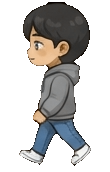
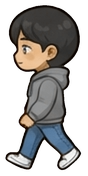
구형 초상 17개·주인공 12장 v5 재추출 — 계단식 테두리 제거
테두리가 계단처럼 울퉁불퉁하던 원인은 알파가 0/255 두 값뿐이라 곡선이
픽셀 계단 그대로 남은 것이었다. v5 방식(4배 슈퍼샘플 후 프리멀티플라이드
알파로 축소)으로 다시 뽑아 알파 180~234종, 반투명 경계 400~1100px 확보.

 - 시트에 인쇄된 이름 라벨을 읽어 칸↔파일 매핑(유사도 매칭은 체형이 비슷해
   전부 같은 칸으로 몰려서 못 씀)
 - 칸 경계는 마젠타가 없는 띠를 실측해 잡음. 균등 분할하면 칸 테두리선이
   딸려 들어와 폭 217px짜리(=칸 전체) 결과가 나왔다
 - 라벨 여백을 26px 잡았더니 발이 잘려서 0으로. 최대덩어리 필터가 글자를
   이미 걸러내므로 여백이 필요 없다
 - 주인공 right_*는 시트에 없다. 옛 파일이 좌우 반전본이었고(반전 대조
   0.74 vs 0.58) 같은 방식으로 뒤집어 방향을 유지

■ 해상도는 못 올렸다 (앞서 보고한 수치는 틀렸음)
 npc_sheet_magenta를 5x3으로 잘못 세어 "칸 안 282px"이라 했는데 실제로는
 5x4라 189px이었다. player_sheet_raw도 3x4라 163px. 즉 지금 크기가 원본
 그대로이고, 재추출로 얻은 건 안티에일리어싱뿐이다(세로는 160~181 →
 163~190으로 소폭). 해상도를 올리려면 시트를 더 크게 다시 뽑아야 한다.

■ 캐시 무효화
 파일명이 같아 브라우저가 옛 그림을 계속 쓴다. ART_V='?v=2'를 초상·주인공·
 대화창 프로필 로더에 붙였다. 선언은 주인공 스프라이트 로더보다 앞에 둬야
 한다 — 뒤에 뒀다가 TDZ 오류로 스크립트 전체가 죽었다.

Changed region(s): [[0.0455, 0.0, 0.9318, 0.9884], [0.3864, 0.1453, 0.4091, 0.1744]]

diff --git a/www/gaehang_ch2.html b/www/gaehang_ch2.html
@@ -150,6 +150,10 @@
 const canvas = document.getElementById('game');
 const ctx = canvas.getContext('2d');
 let VIEW_W = 0, VIEW_H = 0;   // 논리 픽셀 기준 화면 크기(DPR 스케일 전)
+/* 그림 파일을 다시 뽑아도 이름이 같으면 브라우저가 옛 캐시를 계속 쓴다.
+   초상·스프라이트를 갱신할 때 이 값을 올리면 확실히 새로 받는다.
+   (주인공 스프라이트 로더보다 반드시 앞에 있어야 한다 — 뒤에 두면 TDZ 오류) */
+const ART_V = '?v=2';
 const wrapEl = document.getElementById('wrap');
 /* 모바일 브라우저는 주소창이 늦게 접히거나 펼쳐지면서 innerWidth/innerHeight가
    한 박자 늦게 바뀌는 경우가 있다(특히 iOS Safari). visualViewport가 있으면
@@ -244,7 +248,7 @@ const DIR_SRC = { down:'down', up:'up', left:'right', right:'left' };
 const PLAYER_SPRITES = {};
 ['down','up','left','right'].forEach(dir => {
   const src = DIR_SRC[dir];
-  PLAYER_SPRITES[dir] = [0,1,2].map(i => { const im = new Image(); im.src = `assets/player/${src}_${i}.png`; return im; });
+  PLAYER_SPRITES[dir] = [0,1,2].map(i => { const im = new Image(); im.src = `assets/player/${src}_${i}.png` + ART_V; return im; });
 });
 const DIR_NAME = { u:'up', d:'down', l:'left', r:'right' };
 function drawPlayerSprite(px, py, facing, moving){
@@ -265,7 +269,7 @@ function drawPlayerSprite(px, py, facing, moving){
    실루엣 대신 실제 이미지를 필드에도 그린다(ch0_phaser와 동일하게). */
 const NPC_SPRITE_CACHE = {};
 function getNpcImg(path){
-  if (!NPC_SPRITE_CACHE[path]){ const im = new Image(); im.src = path; NPC_SPRITE_CACHE[path] = im; }
+  if (!NPC_SPRITE_CACHE[path]){ const im = new Image(); im.src = path + ART_V; NPC_SPRITE_CACHE[path] = im; }
   return NPC_SPRITE_CACHE[path];
 }
 function drawNpcSprite(px, py, imgPath){
@@ -536,7 +540,7 @@ const Dialog = {
     const portraitEl = document.getElementById('dlg-portrait');
     if (portraitEl){
       const img = beat.img || (beat.name ? null : this.data.img);
-      if (img){ portraitEl.textContent = ''; portraitEl.style.backgroundImage = `url('${img}')`; }
+      if (img){ portraitEl.textContent = ''; portraitEl.style.backgroundImage = `url('${img}${ART_V}')`; }
       else { portraitEl.style.backgroundImage = 'none'; portraitEl.textContent = beat.icon || this.data.icon || '👤'; }
     }
     document.getElementById('dlg-text').textContent = beat.t;

diff --git a/www/ilje_ch7.html b/www/ilje_ch7.html
@@ -150,6 +150,10 @@
 const canvas = document.getElementById('game');
 const ctx = canvas.getContext('2d');
 let VIEW_W = 0, VIEW_H = 0;   // 논리 픽셀 기준 화면 크기(DPR 스케일 전)
+/* 그림 파일을 다시 뽑아도 이름이 같으면 브라우저가 옛 캐시를 계속 쓴다.
+   초상·스프라이트를 갱신할 때 이 값을 올리면 확실히 새로 받는다.
+   (주인공 스프라이트 로더보다 반드시 앞에 있어야 한다 — 뒤에 두면 TDZ 오류) */
+const ART_V = '?v=2';
 const wrapEl = document.getElementById('wrap');
 /* 모바일 브라우저는 주소창이 늦게 접히거나 펼쳐지면서 innerWidth/innerHeight가
    한 박자 늦게 바뀌는 경우가 있다(특히 iOS Safari). visualViewport가 있으면
@@ -249,7 +253,7 @@ const DIR_SRC = { down:'down', up:'up', left:'right', right:'left' };
 const PLAYER_SPRITES = {};
 ['down','up','left','right'].forEach(dir => {
   const src = DIR_SRC[dir];
-  PLAYER_SPRITES[dir] = [0,1,2].map(i => { const im = new Image(); im.src = `assets/player/${src}_${i}.png`; return im; });
+  PLAYER_SPRITES[dir] = [0,1,2].map(i => { const im = new Image(); im.src = `assets/player/${src}_${i}.png` + ART_V; return im; });
 });
 const DIR_NAME = { u:'up', d:'down', l:'left', r:'right' };
 function drawPlayerSprite(px, py, facing, moving){
@@ -270,7 +274,7 @@ function drawPlayerSprite(px, py, facing, moving){
    실루엣 대신 실제 이미지를 필드에도 그린다(ch0_phaser와 동일하게). */
 const NPC_SPRITE_CACHE = {};
 function getNpcImg(path){
-  if (!NPC_SPRITE_CACHE[path]){ const im = new Image(); im.src = path; NPC_SPRITE_CACHE[path] = im; }
+  if (!NPC_SPRITE_CACHE[path]){ const im = new Image(); im.src = path + ART_V; NPC_SPRITE_CACHE[path] = im; }
   return NPC_SPRITE_CACHE[path];
 }
 function drawNpcSprite(px, py, imgPath){
@@ -520,7 +524,7 @@ const Dialog = {
     const portraitEl = document.getElementById('dlg-portrait');
     if (portraitEl){
       const img = beat.img || (beat.name ? null : this.data.img);
-      if (img){ portraitEl.textContent = ''; portraitEl.style.backgroundImage = `url('${img}')`; }
+      if (img){ portraitEl.textContent = ''; portraitEl.style.backgroundImage = `url('${img}${ART_V}')`; }
       else { portraitEl.style.backgroundImage = 'none'; portraitEl.textContent = beat.icon || this.data.icon || '👤'; }
     }
     document.getElementById('dlg-text').textContent = beat.t;

diff --git a/www/ch3.html b/www/ch3.html
@@ -207,6 +207,10 @@
 const canvas = document.getElementById('game');
 const ctx = canvas.getContext('2d');
 let VIEW_W = 0, VIEW_H = 0;   // 논리 픽셀 기준 화면 크기(DPR 스케일 전)
+/* 그림 파일을 다시 뽑아도 이름이 같으면 브라우저가 옛 캐시를 계속 쓴다.
+   초상·스프라이트를 갱신할 때 이 값을 올리면 확실히 새로 받는다.
+   (주인공 스프라이트 로더보다 반드시 앞에 있어야 한다 — 뒤에 두면 TDZ 오류) */
+const ART_V = '?v=2';
 
 /* 가로모드 고정: 세로 뷰포트면 body에 .rot을 붙여 #wrap을 90도 회전시키고,
    #wrap/canvas 크기는 가로세로를 서로 바꾼 값으로 맞춘다. vh 대신 항상 px로 계산. */
@@ -324,7 +328,7 @@ const DIR_SRC = { down:'down', up:'up', left:'right', right:'left' };
 const PLAYER_SPRITES = {};
 ['down','up','left','right'].forEach(dir => {
   const src = DIR_SRC[dir];
-  PLAYER_SPRITES[dir] = [0,1,2].map(i => { const im = new Image(); im.src = `assets/player/${src}_${i}.png`; return im; });
+  PLAYER_SPRITES[dir] = [0,1,2].map(i => { const im = new Image(); im.src = `assets/player/${src}_${i}.png` + ART_V; return im; });
 });
 const DIR_NAME = { u:'up', d:'down', l:'left', r:'right' };
 function drawPlayerSprite(px, py, facing, moving){
@@ -345,7 +349,7 @@ function drawPlayerSprite(px, py, facing, moving){
    실루엣 대신 실제 이미지를 필드에도 그린다(ch0_phaser와 동일하게). */
 const NPC_SPRITE_CACHE = {};
 function getNpcImg(path){
-  if (!NPC_SPRITE_CACHE[path]){ const im = new Image(); im.src = path; NPC_SPRITE_CACHE[path] = im; }
+  if (!NPC_SPRITE_CACHE[path]){ const im = new Image(); im.src = path + ART_V; NPC_SPRITE_CACHE[path] = im; }
   return NPC_SPRITE_CACHE[path];
 }
 function drawNpcSprite(px, py, imgPath){
@@ -779,7 +783,7 @@ const Dialog = {
     document.getElementById('dlg-name').textContent = beat.name || this.data.name;
     const portraitEl = document.getElementById('dlg-portrait');
     const img = beat.img || this.data.img;
-    if (img){ portraitEl.textContent = ''; portraitEl.style.backgroundImage = `url('${img}')`; }
+    if (img){ portraitEl.textContent = ''; portraitEl.style.backgroundImage = `url('${img}${ART_V}')`; }
     else { portraitEl.style.backgroundImage = 'none'; portraitEl.textContent = beat.icon || this.data.icon; }
     document.getElementById('dlg-text').textContent = beat.t;
   },

diff --git a/www/ch4.html b/www/ch4.html
@@ -209,6 +209,10 @@
 const canvas = document.getElementById('game');
 const ctx = canvas.getContext('2d');
 let VIEW_W = 0, VIEW_H = 0;   // 논리 픽셀 기준 화면 크기(DPR 스케일 전)
+/* 그림 파일을 다시 뽑아도 이름이 같으면 브라우저가 옛 캐시를 계속 쓴다.
+   초상·스프라이트를 갱신할 때 이 값을 올리면 확실히 새로 받는다.
+   (주인공 스프라이트 로더보다 반드시 앞에 있어야 한다 — 뒤에 두면 TDZ 오류) */
+const ART_V = '?v=2';
 
 /* 가로모드 고정: 세로 뷰포트면 body에 .rot을 붙여 #wrap을 90도 회전시키고,
    #wrap/canvas 크기는 가로세로를 서로 바꾼 값으로 맞춘다. vh 대신 항상 px로 계산. */
@@ -376,7 +380,7 @@ const DIR_SRC = { down:'down', up:'up', left:'right', right:'left' };
 const PLAYER_SPRITES = {};
 ['down','up','left','right'].forEach(dir => {
   const src = DIR_SRC[dir];
-  PLAYER_SPRITES[dir] = [0,1,2].map(i => { const im = new Image(); im.src = `assets/player/${src}_${i}.png`; return im; });
+  PLAYER_SPRITES[dir] = [0,1,2].map(i => { const im = new Image(); im.src = `assets/player/${src}_${i}.png` + ART_V; return im; });
 });
 const DIR_NAME = { u:'up', d:'down', l:'left', r:'right' };
 function drawPlayerSprite(px, py, facing, moving){
@@ -397,7 +401,7 @@ function drawPlayerSprite(px, py, facing, moving){
    실루엣 대신 실제 이미지를 필드에도 그린다(ch0_phaser와 동일하게). */
 const NPC_SPRITE_CACHE = {};
 function getNpcImg(path){
-  if (!NPC_SPRITE_CACHE[path]){ const im = new Image(); im.src = path; NPC_SPRITE_CACHE[path] = im; }
+  if (!NPC_SPRITE_CACHE[path]){ const im = new Image(); im.src = path + ART_V; NPC_SPRITE_CACHE[path] = im; }
   return NPC_SPRITE_CACHE[path];
 }
 function drawNpcSprite(px, py, imgPath){
@@ -970,7 +974,7 @@ const Dialog = {
     document.getElementById('dlg-name').textContent = beat.name || this.data.name;
     const portraitEl = document.getElementById('dlg-portrait');
     const img = beat.img || this.data.img;
-    if (img){ portraitEl.textContent = ''; portraitEl.style.backgroundImage = `url('${img}')`; }
+    if (img){ portraitEl.textContent = ''; portraitEl.style.backgroundImage = `url('${img}${ART_V}')`; }
     else { portraitEl.style.backgroundImage = 'none'; portraitEl.textContent = beat.icon || this.data.icon; }
     document.getElementById('dlg-text').textContent = beat.t;
   },

diff --git a/www/ch5.html b/www/ch5.html
@@ -209,6 +209,10 @@
 const canvas = document.getElementById('game');
 const ctx = canvas.getContext('2d');
 let VIEW_W = 0, VIEW_H = 0;   // 논리 픽셀 기준 화면 크기(DPR 스케일 전)
+/* 그림 파일을 다시 뽑아도 이름이 같으면 브라우저가 옛 캐시를 계속 쓴다.
+   초상·스프라이트를 갱신할 때 이 값을 올리면 확실히 새로 받는다.
+   (주인공 스프라이트 로더보다 반드시 앞에 있어야 한다 — 뒤에 두면 TDZ 오류) */
+const ART_V = '?v=2';
 
 /* 가로모드 고정: 세로 뷰포트면 body에 .rot을 붙여 #wrap을 90도 회전시키고,
    #wrap/canvas 크기는 가로세로를 서로 바꾼 값으로 맞춘다. vh 대신 항상 px로 계산. */
@@ -384,7 +388,7 @@ const DIR_SRC = { down:'down', up:'up', left:'right', right:'left' };
 const PLAYER_SPRITES = {};
 ['down','up','left','right'].forEach(dir => {
   const src = DIR_SRC[dir];
-  PLAYER_SPRITES[dir] = [0,1,2].map(i => { const im = new Image(); im.src = `assets/player/${src}_${i}.png`; return im; });
+  PLAYER_SPRITES[dir] = [0,1,2].map(i => { const im = new Image(); im.src = `assets/player/${src}_${i}.png` + ART_V; return im; });
 });
 const DIR_NAME = { u:'up', d:'down', l:'left', r:'right' };
 function drawPlayerSprite(px, py, facing, moving){
@@ -405,7 +409,7 @@ function drawPlayerSprite(px, py, facing, moving){
    실루엣 대신 실제 이미지를 필드에도 그린다(ch0_phaser와 동일하게). */
 const NPC_SPRITE_CACHE = {};
 function getNpcImg(path){
-  if (!NPC_SPRITE_CACHE[path]){ const im = new Image(); im.src = path; NPC_SPRITE_CACHE[path] = im; }
+  if (!NPC_SPRITE_CACHE[path]){ const im = new Image(); im.src = path + ART_V; NPC_SPRITE_CACHE[path] = im; }
   return NPC_SPRITE_CACHE[path];
 }
 function drawNpcSprite(px, py, imgPath){
@@ -976,7 +980,7 @@ const Dialog = {
     document.getElementById('dlg-name').textContent = beat.name || this.data.name;
     const portraitEl = document.getElementById('dlg-portrait');
     const img = beat.img || this.data.img;
-    if (img){ portraitEl.textContent = ''; portraitEl.style.backgroundImage = `url('${img}')`; }
+    if (img){ portraitEl.textContent = ''; portraitEl.style.backgroundImage = `url('${img}${ART_V}')`; }
     else { portraitEl.style.backgroundImage = 'none'; portraitEl.textContent = beat.icon || this.data.icon; }
     document.getElementById('dlg-text').textContent = beat.t;
   },

diff --git a/www/ch6.html b/www/ch6.html
@@ -212,6 +212,10 @@
 const canvas = document.getElementById('game');
 const ctx = canvas.getContext('2d');
 let VIEW_W = 0, VIEW_H = 0;   // 논리 픽셀 기준 화면 크기(DPR 스케일 전)
+/* 그림 파일을 다시 뽑아도 이름이 같으면 브라우저가 옛 캐시를 계속 쓴다.
+   초상·스프라이트를 갱신할 때 이 값을 올리면 확실히 새로 받는다.
+   (주인공 스프라이트 로더보다 반드시 앞에 있어야 한다 — 뒤에 두면 TDZ 오류) */
+const ART_V = '?v=2';
 
 const wrapEl = document.getElementById('wrap');
 /* 모바일 브라우저는 주소창이 늦게 접히거나 펼쳐지면서 innerWidth/innerHeight가
@@ -329,7 +333,7 @@ const DIR_SRC = { down:'down', up:'up', left:'right', right:'left' };
 const PLAYER_SPRITES = {};
 ['down','up','left','right'].forEach(dir => {
   const src = DIR_SRC[dir];
-  PLAYER_SPRITES[dir] = [0,1,2].map(i => { const im = new Image(); im.src = `assets/player/${src}_${i}.png`; return im; });
+  PLAYER_SPRITES[dir] = [0,1,2].map(i => { const im = new Image(); im.src = `assets/player/${src}_${i}.png` + ART_V; return im; });
 });
 const DIR_NAME = { u:'up', d:'down', l:'left', r:'right' };
 function drawPlayerSprite(px, py, facing, moving){
@@ -350,7 +354,7 @@ function drawPlayerSprite(px, py, facing, moving){
    실루엣 대신 실제 이미지를 필드에도 그린다(ch0_phaser와 동일하게). */
 const NPC_SPRITE_CACHE = {};
 function getNpcImg(path){
-  if (!NPC_SPRITE_CACHE[path]){ const im = new Image(); im.src = path; NPC_SPRITE_CACHE[path] = im; }
+  if (!NPC_SPRITE_CACHE[path]){ const im = new Image(); im.src = path + ART_V; NPC_SPRITE_CACHE[path] = im; }
   return NPC_SPRITE_CACHE[path];
 }
 function drawNpcSprite(px, py, imgPath){
@@ -764,7 +768,7 @@ const Dialog = {
     const portraitEl = document.getElementById('dlg-portrait');
     if (portraitEl){
       const img = beat.img || (beat.name ? null : this.data.img);
-      if (img){ portraitEl.textContent = ''; portraitEl.style.backgroundImage = `url('${img}')`; }
+      if (img){ portraitEl.textContent = ''; portraitEl.style.backgroundImage = `url('${img}${ART_V}')`; }
       else { portraitEl.style.backgroundImage = 'none'; portraitEl.textContent = beat.icon || this.data.icon || '👤'; }
     }
     document.getElementById('dlg-text').textContent = beat.t;

diff --git a/www/gaehang_ch3.html b/www/gaehang_ch3.html
@@ -175,6 +175,10 @@
 const canvas = document.getElementById('game');
 const ctx = canvas.getContext('2d');
 let VIEW_W = 0, VIEW_H = 0;   // 논리 픽셀 기준 화면 크기(DPR 스케일 전)
+/* 그림 파일을 다시 뽑아도 이름이 같으면 브라우저가 옛 캐시를 계속 쓴다.
+   초상·스프라이트를 갱신할 때 이 값을 올리면 확실히 새로 받는다.
+   (주인공 스프라이트 로더보다 반드시 앞에 있어야 한다 — 뒤에 두면 TDZ 오류) */
+const ART_V = '?v=2';
 
 const wrapEl = document.getElementById('wrap');
 /* 모바일 브라우저는 주소창이 늦게 접히거나 펼쳐지면서 innerWidth/innerHeight가
@@ -273,7 +277,7 @@ const DIR_SRC = { down:'down', up:'up', left:'right', right:'left' };
 const PLAYER_SPRITES = {};
 ['down','up','left','right'].forEach(dir => {
   const src = DIR_SRC[dir];
-  PLAYER_SPRITES[dir] = [0,1,2].map(i => { const im = new Image(); im.src = `assets/player/${src}_${i}.png`; return im; });
+  PLAYER_SPRITES[dir] = [0,1,2].map(i => { const im = new Image(); im.src = `assets/player/${src}_${i}.png` + ART_V; return im; });
 });
 const DIR_NAME = { u:'up', d:'down', l:'left', r:'right' };
 function drawPlayerSprite(px, py, facing, moving){
@@ -294,7 +298,7 @@ function drawPlayerSprite(px, py, facing, moving){
    실루엣 대신 실제 이미지를 필드에도 그린다(ch0_phaser와 동일하게). */
 const NPC_SPRITE_CACHE = {};
 function getNpcImg(path){
-  if (!NPC_SPRITE_CACHE[path]){ const im = new Image(); im.src = path; NPC_SPRITE_CACHE[path] = im; }
+  if (!NPC_SPRITE_CACHE[path]){ const im = new Image(); im.src = path + ART_V; NPC_SPRITE_CACHE[path] = im; }
   return NPC_SPRITE_CACHE[path];
 }
 function drawNpcSprite(px, py, imgPath){
@@ -622,7 +626,7 @@ const Dialog = {
     const portraitEl = document.getElementById('dlg-portrait');
     if (portraitEl){
       const img = beat.img || (beat.name ? null : this.data.img);
-      if (img){ portraitEl.textContent = ''; portraitEl.style.backgroundImage = `url('${img}')`; }
+      if (img){ portraitEl.textContent = ''; portraitEl.style.backgroundImage = `url('${img}${ART_V}')`; }
       else { portraitEl.style.backgroundImage = 'none'; portraitEl.textContent = beat.icon || this.data.icon || '👤'; }
     }
     document.getElementById('dlg-text').textContent = beat.t;

diff --git a/www/ch1.html b/www/ch1.html
@@ -207,6 +207,10 @@
 const canvas = document.getElementById('game');
 const ctx = canvas.getContext('2d');
 let VIEW_W = 0, VIEW_H = 0;   // 논리 픽셀 기준 화면 크기(DPR 스케일 전)
+/* 그림 파일을 다시 뽑아도 이름이 같으면 브라우저가 옛 캐시를 계속 쓴다.
+   초상·스프라이트를 갱신할 때 이 값을 올리면 확실히 새로 받는다.
+   (주인공 스프라이트 로더보다 반드시 앞에 있어야 한다 — 뒤에 두면 TDZ 오류) */
+const ART_V = '?v=2';
 const TS = 40;
 const T = { WALL: 0, GROUND: 1, WOOD: 2, STONE: 3 };
 const WT = 22, HT = 18;
@@ -330,7 +334,7 @@ const DIR_SRC = { down:'down', up:'up', left:'right', right:'left' };
 const PLAYER_SPRITES = {};
 ['down','up','left','right'].forEach(dir => {
   const src = DIR_SRC[dir];
-  PLAYER_SPRITES[dir] = [0,1,2].map(i => { const im = new Image(); im.src = `assets/player/${src}_${i}.png`; return im; });
+  PLAYER_SPRITES[dir] = [0,1,2].map(i => { const im = new Image(); im.src = `assets/player/${src}_${i}.png` + ART_V; return im; });
 });
 const DIR_NAME = { u:'up', d:'down', l:'left', r:'right' };
 function drawPlayerSprite(px, py, facing, moving){
@@ -350,7 +354,7 @@ function drawPlayerSprite(px, py, facing, moving){
    실루엣 대신 실제 이미지를 필드에도 그린다(ch0_phaser와 동일하게). */
 const NPC_SPRITE_CACHE = {};
 function getNpcImg(path){
-  if (!NPC_SPRITE_CACHE[path]){ const im = new Image(); im.src = path; NPC_SPRITE_CACHE[path] = im; }
+  if (!NPC_SPRITE_CACHE[path]){ const im = new Image(); im.src = path + ART_V; NPC_SPRITE_CACHE[path] = im; }
   return NPC_SPRITE_CACHE[path];
 }
 function drawNpcSprite(px, py, imgPath){
@@ -792,7 +796,7 @@ const Dialog = {
     const portraitEl = document.getElementById('dlg-portrait');
     if (portraitEl){
       const img = beat.img || (beat.name ? null : this.data.img);
-      if (img){ portraitEl.textContent = ''; portraitEl.style.backgroundImage = `url('${img}')`; }
+      if (img){ portraitEl.textContent = ''; portraitEl.style.backgroundImage = `url('${img}${ART_V}')`; }
       else { portraitEl.style.backgroundImage = 'none'; portraitEl.textContent = beat.icon || this.data.icon || '👤'; }
     }
     document.getElementById('dlg-text').textContent = beat.t;

diff --git a/www/ch2.html b/www/ch2.html
@@ -247,6 +247,10 @@
 const canvas = document.getElementById('game');
 const ctx = canvas.getContext('2d');
 let VIEW_W = 0, VIEW_H = 0;   // 논리 픽셀 기준 화면 크기(DPR 스케일 전)
+/* 그림 파일을 다시 뽑아도 이름이 같으면 브라우저가 옛 캐시를 계속 쓴다.
+   초상·스프라이트를 갱신할 때 이 값을 올리면 확실히 새로 받는다.
+   (주인공 스프라이트 로더보다 반드시 앞에 있어야 한다 — 뒤에 두면 TDZ 오류) */
+const ART_V = '?v=2';
 
 /* 가로모드 고정: 세로 뷰포트면 body에 .rot을 붙여 #wrap을 90도 회전시키고,
    #wrap/canvas 크기는 가로세로를 서로 바꾼 값으로 맞춘다. vh 대신 항상 px로 계산. */
@@ -477,7 +481,7 @@ const DIR_SRC = { down:'down', up:'up', left:'right', right:'left' };
 const PLAYER_SPRITES = {};
 ['down','up','left','right'].forEach(dir => {
   const src = DIR_SRC[dir];
-  PLAYER_SPRITES[dir] = [0,1,2].map(i => { const im = new Image(); im.src = `assets/player/${src}_${i}.png`; return im; });
+  PLAYER_SPRITES[dir] = [0,1,2].map(i => { const im = new Image(); im.src = `assets/player/${src}_${i}.png` + ART_V; return im; });
 });
 const DIR_NAME = { u:'up', d:'down', l:'left', r:'right' };
 function drawPlayerSprite(px, py, facing, moving){
@@ -498,7 +502,7 @@ function drawPlayerSprite(px, py, facing, moving){
    실루엣 대신 실제 이미지를 필드에도 그린다(ch0_phaser와 동일하게). */
 const NPC_SPRITE_CACHE = {};
 function getNpcImg(path){
-  if (!NPC_SPRITE_CACHE[path]){ const im = new Image(); im.src = path; NPC_SPRITE_CACHE[path] = im; }
+  if (!NPC_SPRITE_CACHE[path]){ const im = new Image(); im.src = path + ART_V; NPC_SPRITE_CACHE[path] = im; }
   return NPC_SPRITE_CACHE[path];
 }
 function drawNpcSprite(px, py, imgPath){
@@ -1160,7 +1164,7 @@ const Dialog = {
     const img = beat.img || (beat.name ? null : this.data.img);
     if (img){
       portraitEl.style.visibility = 'visible';
-      portraitEl.textContent = ''; portraitEl.style.backgroundImage = `url('${img}')`;
+      portraitEl.textContent = ''; portraitEl.style.backgroundImage = `url('${img}${ART_V}')`;
     } else if (beat.name){
       portraitEl.style.visibility = 'hidden';
     } else {
